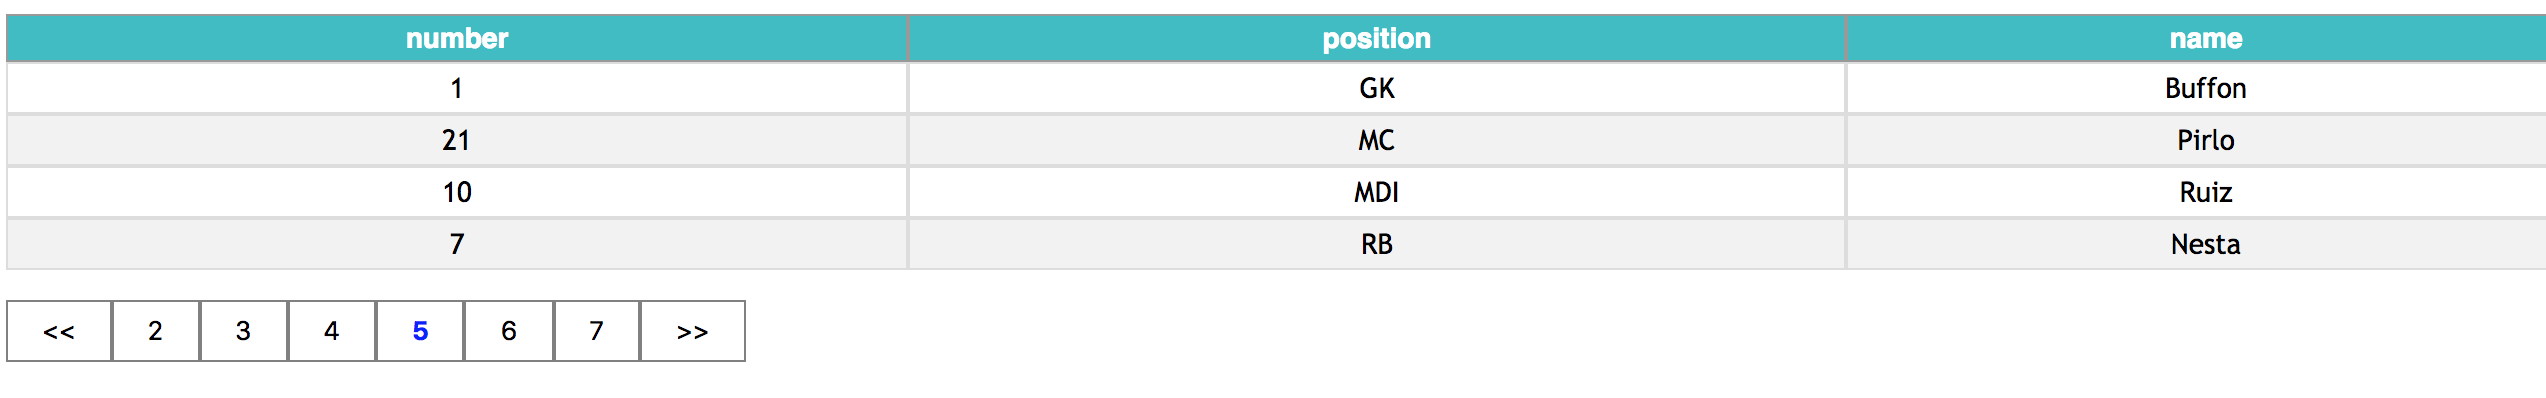
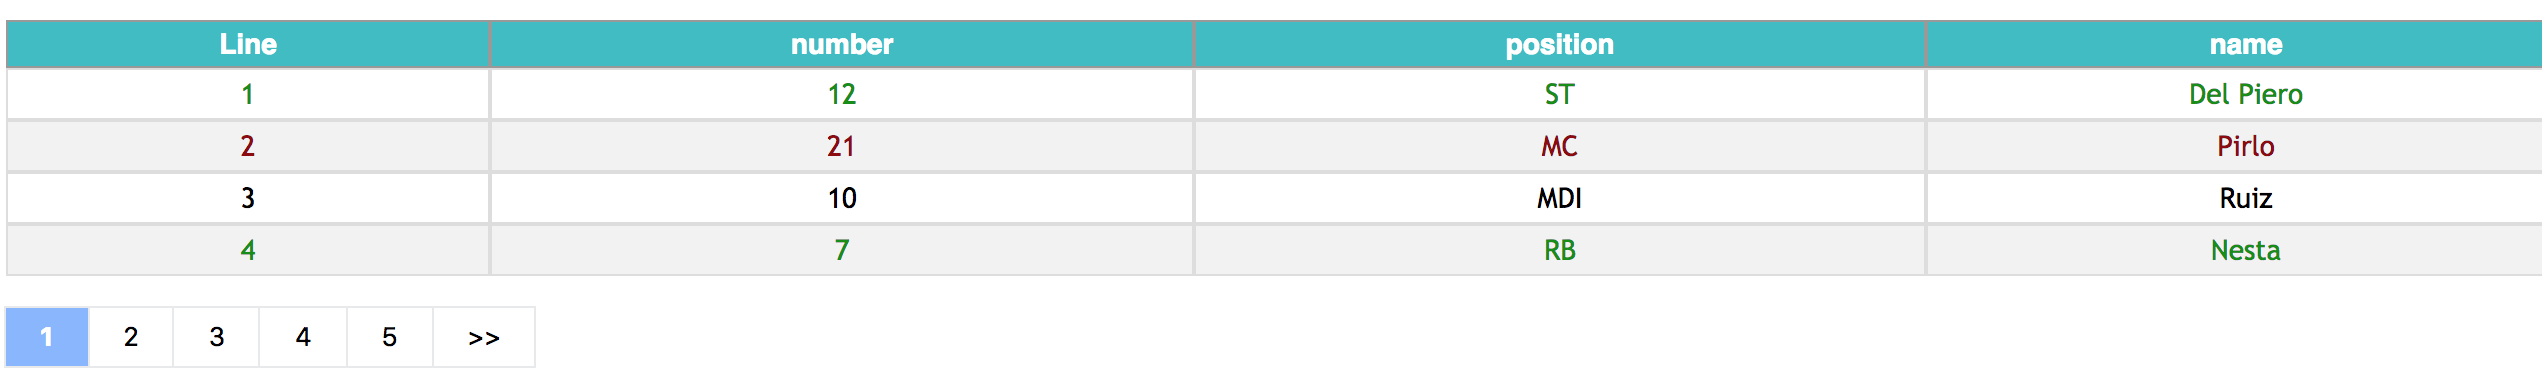
Styles and bugs fixing
Max height bug fixed
Pagination style updated

diff --git a/src/index.js b/src/index.js
@@ -86,7 +86,7 @@ class TableViewer extends Component {
   }
 
   render() {
-    var height = {height: this.props.maxHeight}
+    var height = {maxHeight: this.props.maxHeight}
     return (
       <div className="logViewer">
         {this.renderStats()}
@@ -102,8 +102,8 @@ class TableViewer extends Component {
 
   renderPagination(){
     if (this.props.pagination){
-      var boxStyle = this.props.pageBoxStyle ? this.props.pageBoxStyle: {border: 0, color: 'black', padding: 3, fontSize: 16};
-      var activeStyle = this.props.activePageBoxStyle ? this.props.activePageBoxStyle: {fontWeight: 'bolder', color: 'green'}
+      var boxStyle = this.props.pageBoxStyle ? this.props.pageBoxStyle: {};
+      var activeStyle = this.props.activePageBoxStyle ? this.props.activePageBoxStyle: {}
       var pagesDisplay = this.props.maxPagesToDisplay ? this.props.maxPagesToDisplay : 5;
       return(
         <Paginator

diff --git a/README.md b/README.md
@@ -113,6 +113,8 @@ Changes the background to white and the text to blue
 
 
 #What's new
+* Max Height fixed
+* Pagination styles updated
 * Fixed a bug when creating a CSV file with commas in the data.
 
 # License 
